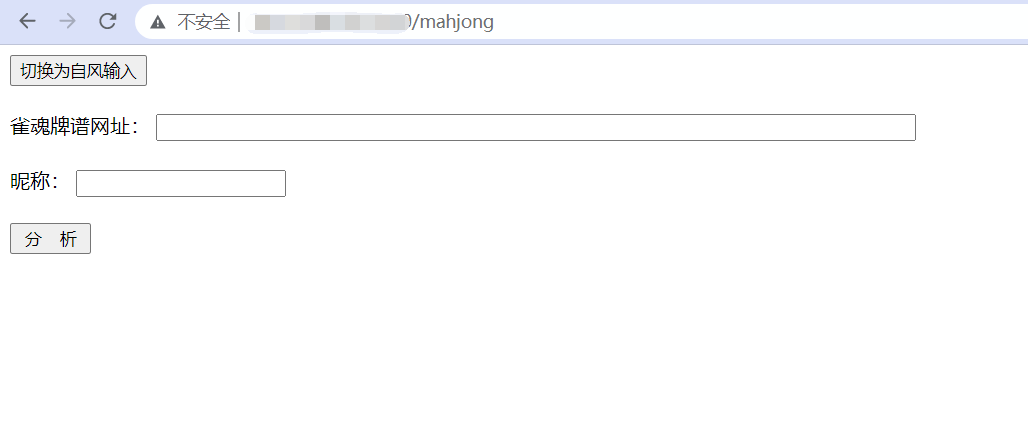
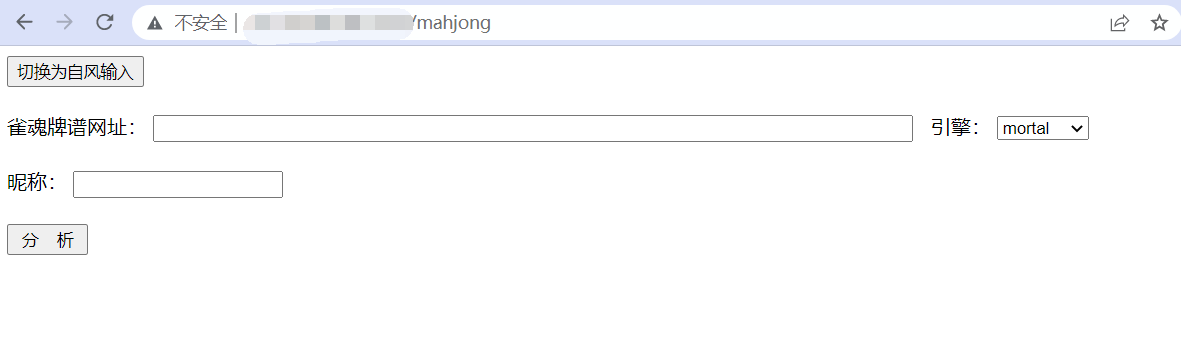
Update liqi and go.mod; Optimize the engine; Fixed several bugs

diff --git a/index.html b/index.html
@@ -2,7 +2,7 @@
 <html lang="zh-CN">
 <head>
     <meta charset="UTF-8">
-    <title>雀魂牌谱分析——基于{{.}}</title>
+    <title>雀魂牌谱分析</title>
 </head>
 <body>
 <script>
@@ -29,6 +29,13 @@
 <form action="/mahjong/analyse" method="post">雀魂牌谱网址：
     <label>
         <input type="text" name="url" style="width:600px;"></label>
+    &nbsp;&nbsp;引擎：
+    <label>
+        <select id="engine" name="engine">
+            <option value="mortal">mortal</option>
+            <option value="akochan">akochan</option>
+        </select>
+    </label>
     <br/>
     <br/>
     <span id="mode1">昵称：
@@ -38,14 +45,14 @@
     </span>
     <span id="mode2" style="display: none">自风：
         <label>
-          <select id="jikaze" name="jikaze">
-            <option value="东">东</option>
-            <option value="南">南</option>
-            <option value="西">西</option>
-            <option value="北">北</option>
-          </select>
+            <select id="jikaze" name="jikaze">
+                <option value="东">东</option>
+                <option value="南">南</option>
+                <option value="西">西</option>
+                <option value="北">北</option>
+            </select>
         </label>
-      </span>
+    </span>
     <br/>
     <br/>
     <input type="submit" value=" 分    析 ">

diff --git a/analyse.html b/analyse.html
@@ -2,7 +2,7 @@
 <html lang="zh-CN">
 <head>
     <meta charset="UTF-8">
-    <title>雀魂牌谱分析——基于{{.}}</title>
+    <title>雀魂牌谱分析</title>
 </head>
 <body>
     <script>

diff --git a/tools/comm.go b/tools/comm.go
@@ -47,7 +47,7 @@ func exists(path string) (bool, error) {
 	return false, err
 }
 
-func engineReview(conf *Config, uuid string, nickname string, jikaze string, w http.ResponseWriter, r *http.Request) error {
+func engineReview(conf *Config, uuid string, nickname string, jikaze string, engine string, w http.ResponseWriter, r *http.Request) error {
 	// 流式传输
 	ctx := r.Context()
 	ch := make(chan struct{})
@@ -55,10 +55,10 @@ func engineReview(conf *Config, uuid string, nickname string, jikaze string, w h
 	var cmd *exec.Cmd
 
 	// windows下使用akochan官方打包好的akochan-reviewer-v0.7.1的命令
-	// cmd = exec.CommandContext(ctx, "./akochan-reviewer.exe", "-a", jikaze, "--no-open", "-i", conf.ReviewerPath+"/outputs/"+uuid+".json", "-o", conf.ReviewerPath+"/outputs/"+uuid+"_"+jikaze+".html")
+	// cmd = exec.CommandContext(ctx, "./akochan-reviewer.exe", "-a", jikaze, "--no-open", "--show-rating", "-i", conf.ReviewerPath+"/outputs/"+uuid+".json", "-o", conf.ReviewerPath+"/outputs/"+uuid+"_"+jikaze+"_"+engine+".html")
 
 	// 使用升级后的mjai-reviewer的命令（Linux）
-	cmd = exec.CommandContext(ctx, "./mjai-reviewer", "-e", conf.EngineName, "-a", jikaze, "--no-open", "-i", conf.ReviewerPath+"/outputs/"+uuid+".json", "-o", conf.ReviewerPath+"/outputs/"+uuid+"_"+jikaze+".html")
+	cmd = exec.CommandContext(ctx, "./mjai-reviewer", "-e", engine, "-a", jikaze, "--no-open", "--show-rating", "-i", conf.ReviewerPath+"/outputs/"+uuid+".json", "-o", conf.ReviewerPath+"/outputs/"+uuid+"_"+jikaze+"_"+engine+".html")
 
 	rPipe, wPipe, err := os.Pipe()
 	if err != nil {
@@ -123,7 +123,7 @@ func writeOutput(w http.ResponseWriter, input io.ReadCloser, flag *error) {
 }
 
 // 返回自风对应的下标["0", "1", "2", "3"]，以及错误信息
-func Comm(conf *Config, uuid string, nickname string, jikaze string, w http.ResponseWriter, r *http.Request) (string, error) {
+func Comm(conf *Config, uuid string, nickname string, jikaze string, engine string, w http.ResponseWriter, r *http.Request) (string, error) {
 	// 创建outputs缓存文件夹
 	path := conf.ReviewerPath + "/outputs/"
 	exist, cerr := exists(path)
@@ -204,13 +204,13 @@ func Comm(conf *Config, uuid string, nickname string, jikaze string, w http.Resp
 	}
 
 	// 检查服务器上是否有分析结果的缓存
-	exist, cerr = exists(conf.ReviewerPath + "/outputs/" + uuid + "_" + jikaze + ".html")
+	exist, cerr = exists(conf.ReviewerPath + "/outputs/" + uuid + "_" + jikaze + "_" + engine + ".html")
 	if cerr != nil {
 		log.Printf("get analysis result html file error![%v]\n", cerr)
 		return "", cerr
 	}
 	if !exist {
-		cerr = engineReview(conf, uuid, nickname, jikaze, w, r)
+		cerr = engineReview(conf, uuid, nickname, jikaze, engine, w, r)
 	}
 
 	return jikaze, cerr

diff --git a/mahjong.go b/mahjong.go
@@ -37,7 +37,7 @@ func getMahjongURL(w http.ResponseWriter, r *http.Request) {
 			log.Println("create template failed, err:", err)
 			return
 		}
-		err = tmpl.Execute(w, CONFIG.EngineName)
+		err = tmpl.Execute(w, nil)
 		if err != nil {
 			return
 		}
@@ -55,7 +55,7 @@ func analyse(w http.ResponseWriter, r *http.Request) {
 			log.Println("create template failed, err:", err)
 			return
 		}
-		err = tmpl.Execute(w, CONFIG.EngineName)
+		err = tmpl.Execute(w, nil)
 		if err != nil {
 			return
 		}
@@ -64,7 +64,7 @@ func analyse(w http.ResponseWriter, r *http.Request) {
 		if err != nil {
 			return
 		}
-		paras := map[string]string{"url": "", "nickname": "", "jikaze": ""}
+		paras := map[string]string{"url": "", "nickname": "", "jikaze": "", "engine": "mortal"} // 默认mortal引擎
 		kaze := map[string]string{"东": "0", "南": "1", "西": "2", "北": "3"}
 		for k, v := range r.Form {
 			switch k {
@@ -73,7 +73,7 @@ func analyse(w http.ResponseWriter, r *http.Request) {
 			case "nickname":
 				paras["nickname"] = v[0]
 			case "jikaze":
-				if len(v) != 0 && v[0] == "东" || v[0] == "南" || v[0] == "西" || v[0] == "北" {
+				if len(v) != 0 && (v[0] == "东" || v[0] == "南" || v[0] == "西" || v[0] == "北") {
 					paras["jikaze"] = kaze[v[0]]
 				} else {
 					// 返回参数格式错误
@@ -82,6 +82,12 @@ func analyse(w http.ResponseWriter, r *http.Request) {
 					fmt.Fprintln(w, err)
 					log.Println("/analyse: ", err)
 					return
+				}
+			case "engine":
+				if len(v) != 0 && (v[0] == "mortal" || v[0] == "akochan") {
+					paras["engine"] = v[0]
+				} else {
+					paras["engine"] = "mortal"
 				}
 			}
 		}
@@ -115,7 +121,7 @@ func analyse(w http.ResponseWriter, r *http.Request) {
 			if err != nil {
 				return
 			}
-			paras["jikaze"], err = tools.Comm(CONFIG, uuid, paras["nickname"], paras["jikaze"], w, r)
+			paras["jikaze"], err = tools.Comm(CONFIG, uuid, paras["nickname"], paras["jikaze"], paras["engine"], w, r)
 			if err != nil {
 				fmt.Fprintln(w, err)
 				_, err = fmt.Fprintf(w, "分析失败！\n")

diff --git a/tools/helper.go b/tools/helper.go
@@ -10,7 +10,6 @@ type Config struct {
 	Username     string `json:"username"`
 	Password     string `json:"password"`
 	LoginUUID    string `json:"loginUUID"`
-	EngineName   string `json:"engineName"`
 	ReviewerPath string `json:"reviewerPath"`
 }
 

diff --git a/README.md b/README.md
@@ -31,7 +31,6 @@ git clone https://github.com/Pragmatism0220/mahjongReviewer.git
   "username": "example@email.com",  // 雀魂小号邮箱地址
   "password": "",                   // 雀魂小号密码
   "loginUUID": "",                  // 形如"bbd6p84-oe7u-t4qr-tteb-iwar77s63donn"，可以留空，但最好还是填上
-  "engineName": "akochan",          // 引擎名。只能为akochan或者mortal
   "reviewerPath": ""                // reviewer路径。比如在linux下：/home/user/some/dir/mjai-reviewer/
 }
 ```
